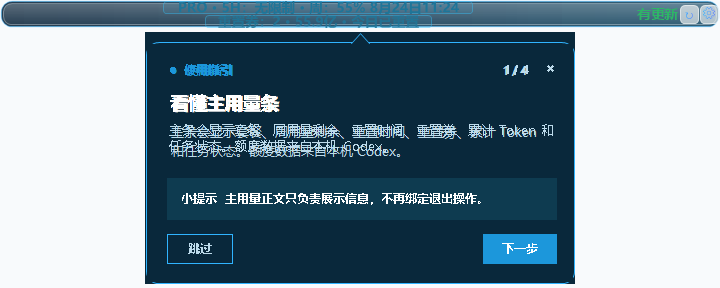
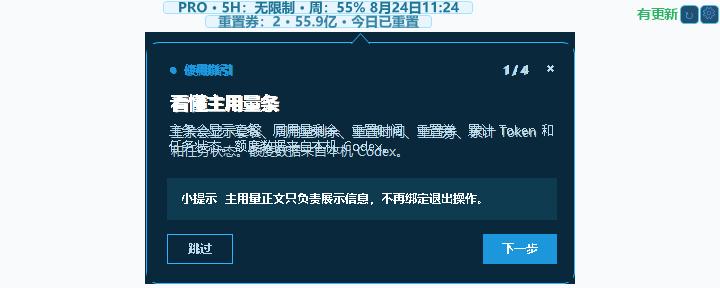
Release v1.3.47 top capsule surfaces

Changed region(s): [[0.0, 0.0, 1.0, 0.0938]]

diff --git a/Program.cs b/Program.cs
@@ -976,7 +976,7 @@ namespace CodexUsageOverlay
                     visualSettings.DisplayPosition);
                 bool capsuleLayoutPosition = bottomCapsulePosition ||
                     visualSettings.DisplayPosition == OverlayDisplayPosition.TitleBar;
-                bool bottomCapsuleCollapsed = bottomCapsulePosition && !settingsExpanded;
+                bool capsuleLayoutCollapsed = capsuleLayoutPosition && !settingsExpanded;
                 bottomCapsuleLayout = capsuleLayoutPosition
                     ? BuildBottomCapsuleLayout(graphics, visualSettings)
                     : null;
@@ -1070,7 +1070,7 @@ namespace CodexUsageOverlay
                         graphics.FillPath(opaqueBrush, opaquePath);
                 }
 
-                if (bottomCapsuleCollapsed)
+                if (capsuleLayoutCollapsed)
                 {
                     if (background != null)
                         background.Dispose();
@@ -1236,8 +1236,8 @@ namespace CodexUsageOverlay
 
         public void ExportThemePreviews(string outputDirectory)
         {
-            string[] themes = new[] { "NeonBlue", "FrostedGlass", "OrangeGradient", "PinkGradient", "LightCard", "RainbowText" };
-            string[] names = new[] { "neon-blue", "frosted-glass", "orange-gradient", "pink-gradient", "light-card", "rainbow-text" };
+            string[] themes = new[] { "NeonBlue", "FrostedGlass", "OrangeGradient", "PinkGradient", "LightCard", "Custom", "RainbowText" };
+            string[] names = new[] { "neon-blue", "frosted-glass", "orange-gradient", "pink-gradient", "light-card", "custom", "rainbow-text" };
             OverlaySettings originalSettings = settings;
             OverlaySettings originalDraft = draftSettings;
             string originalText = displayText;
@@ -1254,6 +1254,14 @@ namespace CodexUsageOverlay
             try
             {
                 displayText = "PRO | 周用量剩余：55%·8月24日11:24重置 | 重置券：2 | 累计Token：55.9亿";
+                displayCapsuleTexts = new[]
+                {
+                    "PRO",
+                    "5H：无限制",
+                    "周：55% 8月24日11:24",
+                    "重置券：2",
+                    "55.9亿"
+                };
                 taskState = CodexTaskState.Completed;
                 resetRadar = new ResetRadarData
                 {
@@ -2086,7 +2094,7 @@ namespace CodexUsageOverlay
             Color capsuleFill;
             Color capsuleBorder;
             UiRendering.ResolveCapsuleSurfaceColors(visualSettings.Theme,
-                out capsuleFill, out capsuleBorder);
+                visualSettings.CustomBackgroundArgb, out capsuleFill, out capsuleBorder);
             Color capsuleText = lightSurface
                 ? Color.FromArgb(255, 58, 69, 82)
                 : textColor;
@@ -2411,7 +2419,7 @@ namespace CodexUsageOverlay
             out Color border)
         {
             UiRendering.ResolveCapsuleSurfaceColors(visualSettings.Theme,
-                out fill, out border);
+                visualSettings.CustomBackgroundArgb, out fill, out border);
             if (active)
             {
                 fill = Color.FromArgb(Math.Min(255, fill.A + 17),
@@ -2477,7 +2485,8 @@ namespace CodexUsageOverlay
             Color neutralCapsuleFill;
             Color neutralCapsuleBorder;
             UiRendering.ResolveCapsuleSurfaceColors(visualSettings.Theme,
-                out neutralCapsuleFill, out neutralCapsuleBorder);
+                visualSettings.CustomBackgroundArgb, out neutralCapsuleFill,
+                out neutralCapsuleBorder);
             Color neutralCapsuleText = lightCapsuleSurface
                 ? Color.FromArgb(255, 58, 69, 82)
                 : textColor;

diff --git a/UiRendering.cs b/UiRendering.cs
@@ -184,6 +184,24 @@ namespace CodexUsageOverlay
             out Color fill,
             out Color border)
         {
+            if (String.Equals(theme, "NeonBlue", StringComparison.Ordinal))
+            {
+                fill = Color.FromArgb(228, 8, 61, 92);
+                border = Color.FromArgb(215, 70, 196, 247);
+                return;
+            }
+            if (String.Equals(theme, "OrangeGradient", StringComparison.Ordinal))
+            {
+                fill = Color.FromArgb(228, 178, 82, 36);
+                border = Color.FromArgb(220, 255, 213, 135);
+                return;
+            }
+            if (String.Equals(theme, "PinkGradient", StringComparison.Ordinal))
+            {
+                fill = Color.FromArgb(228, 139, 57, 149);
+                border = Color.FromArgb(220, 255, 190, 230);
+                return;
+            }
             bool lightSurface = String.Equals(theme, "FrostedGlass",
                 StringComparison.Ordinal) ||
                 String.Equals(theme, "LightCard", StringComparison.Ordinal) ||
@@ -194,6 +212,28 @@ namespace CodexUsageOverlay
             border = lightSurface
                 ? Color.FromArgb(150, 188, 198, 209)
                 : Color.FromArgb(180, 255, 255, 255);
+        }
+
+        public static void ResolveCapsuleSurfaceColors(
+            string theme,
+            int customBackgroundArgb,
+            out Color fill,
+            out Color border)
+        {
+            if (String.Equals(theme, "Custom", StringComparison.Ordinal))
+            {
+                Color custom = Color.FromArgb(customBackgroundArgb);
+                fill = Color.FromArgb(226,
+                    Math.Max(0, custom.R * 3 / 5),
+                    Math.Max(0, custom.G * 3 / 5),
+                    Math.Max(0, custom.B * 3 / 5));
+                border = Color.FromArgb(220,
+                    Math.Min(255, custom.R + 74),
+                    Math.Min(255, custom.G + 74),
+                    Math.Min(255, custom.B + 74));
+                return;
+            }
+            ResolveCapsuleSurfaceColors(theme, out fill, out border);
         }
 
         // The conversation composer has a light surface and no overlay card behind the text.

diff --git a/tests/RenderingCompatibilityTests.cs b/tests/RenderingCompatibilityTests.cs
@@ -99,15 +99,36 @@ namespace CodexUsageOverlay
             Color rainbowBorder;
             Color neonFill;
             Color neonBorder;
+            Color orangeFill;
+            Color orangeBorder;
+            Color pinkFill;
+            Color pinkBorder;
+            Color customFill;
+            Color customBorder;
             UiRendering.ResolveCapsuleSurfaceColors("RainbowText",
                 out rainbowFill, out rainbowBorder);
             UiRendering.ResolveCapsuleSurfaceColors("NeonBlue",
                 out neonFill, out neonBorder);
+            UiRendering.ResolveCapsuleSurfaceColors("OrangeGradient",
+                out orangeFill, out orangeBorder);
+            UiRendering.ResolveCapsuleSurfaceColors("PinkGradient",
+                out pinkFill, out pinkBorder);
+            UiRendering.ResolveCapsuleSurfaceColors("Custom", Color.FromArgb(24, 99, 171).ToArgb(),
+                out customFill, out customBorder);
 
             Assert(rainbowFill.R == 255 && rainbowFill.G == 255 && rainbowFill.B == 255,
                 "rainbow capsule surface is not the shared light surface");
             Assert(rainbowBorder.A > 0 && neonBorder.A > 0 && neonFill.A > 0,
                 "capsule surface did not return visible shared borders");
+            Assert(neonFill.R < 50 && neonFill.G < 120 && neonFill.B < 150 &&
+                neonFill.A >= 200,
+                "neon capsule surface is too pale for a transparent title bar");
+            Assert(orangeFill.R > orangeFill.G && orangeFill.G > orangeFill.B &&
+                orangeFill.A >= 200 && pinkFill.R > pinkFill.G && pinkFill.B > pinkFill.G &&
+                pinkFill.A >= 200,
+                "gradient capsule surfaces do not retain their theme color");
+            Assert(customFill.A >= 200 && customBorder.A >= 200,
+                "custom capsule surface is too transparent on the title bar");
         }
 
         public static void ComposerInsideInkRemainsReadableOnLightSurface()

diff --git a/CodexAppServerClient.cs b/CodexAppServerClient.cs
@@ -121,7 +121,7 @@ namespace CodexUsageOverlay
             Dictionary<string, object> clientInfo = new Dictionary<string, object>();
             clientInfo["name"] = "codex_usage_overlay";
             clientInfo["title"] = "Codex Usage Overlay";
-            clientInfo["version"] = "1.3.46";
+            clientInfo["version"] = "1.3.47";
             Dictionary<string, object> initializeParams = new Dictionary<string, object>();
             initializeParams["clientInfo"] = clientInfo;
             initializeParams["capabilities"] = ObjectOf("experimentalApi", true);

diff --git a/ResetRadarService.cs b/ResetRadarService.cs
@@ -374,7 +374,7 @@ namespace CodexUsageOverlay
             HttpWebRequest request = (HttpWebRequest)WebRequest.Create(FeedUrl);
             request.Method = "GET";
             request.Accept = "application/json";
-            request.UserAgent = "CodexUsageOverlay/1.3.46";
+            request.UserAgent = "CodexUsageOverlay/1.3.47";
             request.Timeout = 15000;
             request.ReadWriteTimeout = 15000;
             request.AllowAutoRedirect = false;

diff --git a/AssemblyInfo.cs b/AssemblyInfo.cs
@@ -3,6 +3,6 @@ using System.Reflection;
 [assembly: AssemblyTitle("Codex Usage Overlay")]
 [assembly: AssemblyProduct("Codex Usage Overlay")]
 [assembly: AssemblyCompany("Codex Usage Overlay")]
-[assembly: AssemblyVersion("1.3.46.0")]
-[assembly: AssemblyFileVersion("1.3.46.0")]
-[assembly: AssemblyInformationalVersion("1.3.46")]
+[assembly: AssemblyVersion("1.3.47.0")]
+[assembly: AssemblyFileVersion("1.3.47.0")]
+[assembly: AssemblyInformationalVersion("1.3.47")]

diff --git a/GitHubReleaseUpdateService.cs b/GitHubReleaseUpdateService.cs
@@ -23,7 +23,7 @@ namespace CodexUsageOverlay
 
     internal sealed class GitHubReleaseUpdateService : IDisposable
     {
-        public const string CurrentVersion = "1.3.46";
+        public const string CurrentVersion = "1.3.47";
         public const string LatestReleaseUrl =
             "https://github.com/ivan51769/CodexUsageOverlay/releases/latest";
 

diff --git a/CHANGELOG.md b/CHANGELOG.md
@@ -1,5 +1,11 @@
 # 更新记录
 
+## v1.3.47
+
+- 修复顶部任务栏收起时重复绘制外层胶囊的问题：左右两段空色块已移除，只保留实际的额度、重置信号和操作按钮。
+- 荧光蓝、渐变橙、渐变粉与自定义主题的胶囊底色改为更实的对应色相；磨砂、轻盈白和彩字仍保留亮底表面，保证各主题的文字对比。
+- 主题预览补充自定义主题，并使用真实额度字段生成顶部收起态截图，便于检查所有主题。
+
 ## v1.3.46
 
 - 顶部任务栏字号默认调整为 12pt，升级自 v1.3.45 的原默认 8.5pt 会自动迁移；顶部可继续增大到 18pt。
